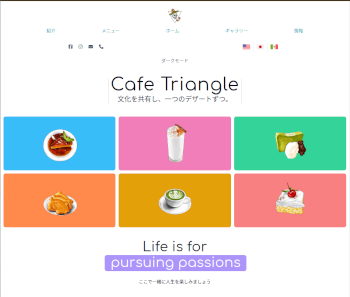
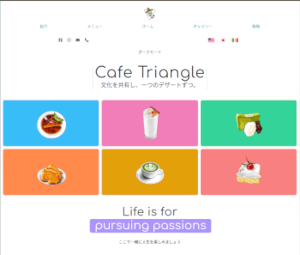
refactor(README): fix screenshot sizing issues in README.md file.

diff --git a/README.md b/README.md
@@ -21,7 +21,7 @@ This is complete refactor for Cafe Triangle website. Cafe Triangle is a small ca
 
 ### Desktop
 
-![Desktop screenshot](assets/screenshots/desktop.png)
+![Desktop screenshot](src/assets/screenshots/desktop.png)
 
 ### Mobile
 
